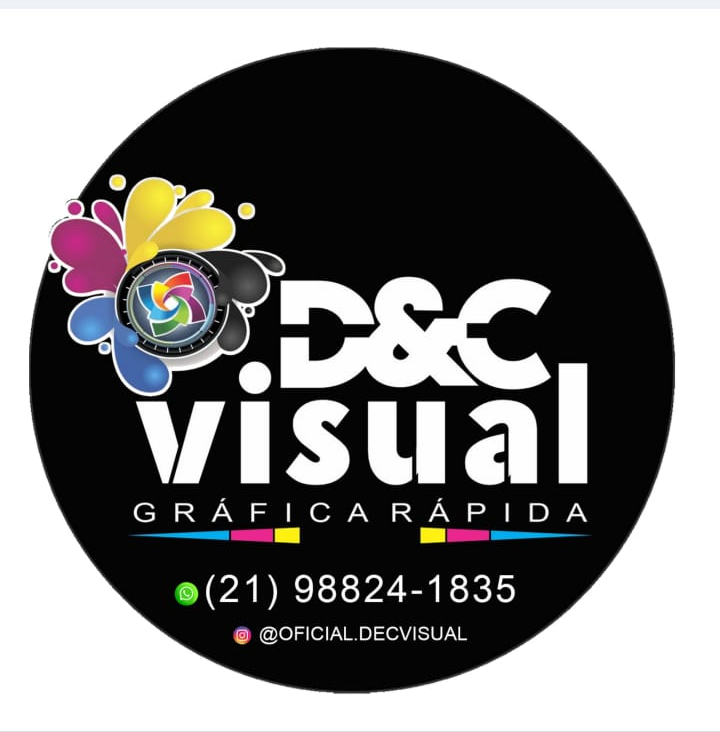
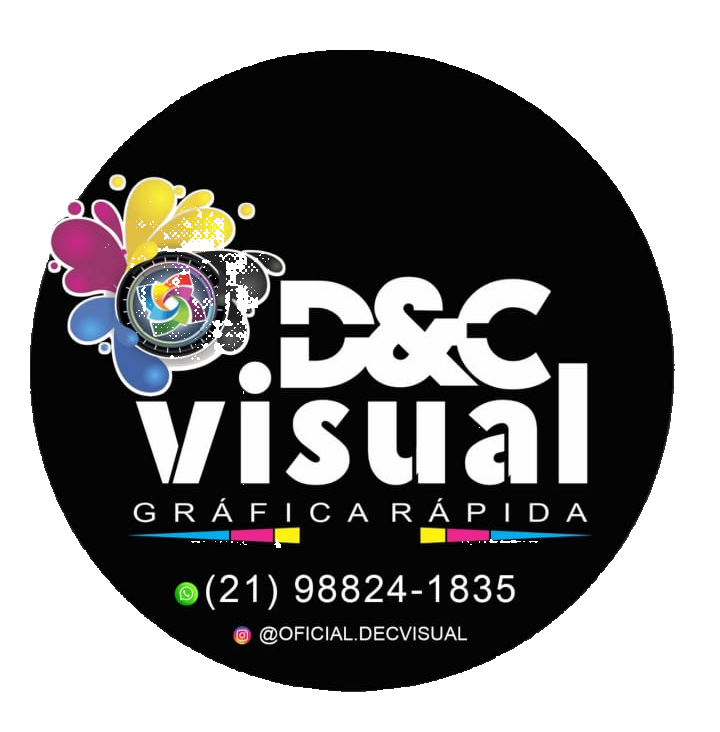
"atualizando bug dos patrocinadores"

diff --git a/index.html b/index.html
@@ -161,7 +161,7 @@
                     <div class="carousel-inner">
                         <div class="carousel-item active">
                             <a href="https://www.instagram.com/gi.s.rosario/">
-                                <img src="/imagems do PIB/patrocinio1.jpg" alt="" class="">
+                                <img src="/imagems do PIB/patrocinio1.png" alt="" class="">
                             </a>
                         </div>
         
@@ -173,13 +173,13 @@
         
                         <div class="carousel-item">
                             <a href="https://www.instagram.com/dra.luizavictor?igsh=MXE1eTM3NGF5cjluOQ%3D%3D"></a>
-                                <img src="/imagems do PIB/patronicio3.jpg" alt="" class="">
+                                <img src="/imagems do PIB/patronicio3.png" alt="" class="">
                             </a>
                         </div>
         
                         <div class="carousel-item">
                             <a href="https://www.instagram.com/nrdamudanca?utm_source=qr&igsh=cTc3bDNzYXl0a3d2">
-                                <img src="/imagems do PIB/patrocinio4.jpg" alt="" style="border-radius: 20rem;">
+                                <img src="/imagems do PIB/patrocinio4.png" alt="" style="border-radius: 20rem;">
                             </a>
                         </div>
         
@@ -199,7 +199,7 @@
                             <img src="" alt="" class=""> -->
                         </div>
                     </div>
-                    <button class="carousel-control-prev" type="button" data-bs-target="#carouselPatrocinio" data-bs-slide="prev">
+                    <!-- <button class="carousel-control-prev" type="button" data-bs-target="#carouselPatrocinio" data-bs-slide="prev">
                         <span class="carousel-control-prev-icon" aria-hidden="true"></span>
                         <span class="visually-hideen">Previous</span>
                     </button>
@@ -207,7 +207,7 @@
                     <button class="carousel-control-next" type="button" data-bs-target="#carouselPatrocinio" data-bs-slide="next">
                         <span class="carousel-control-next-icon" aria-hidden="true"></span>
                         <span class="visually-hideen">Next</span>
-                    </button>
+                    </button> -->
                 </div>
             </div>
 

diff --git a/style.css b/style.css
@@ -475,7 +475,7 @@ body{
 
 .patrocinios .carousel.slide .carousel-inner .carousel-item img{
     width: 20em;
-
+    border-
 }
 
 .patrocinios .carousel.slide .carousel-inner .carousel-item a img:hover{
